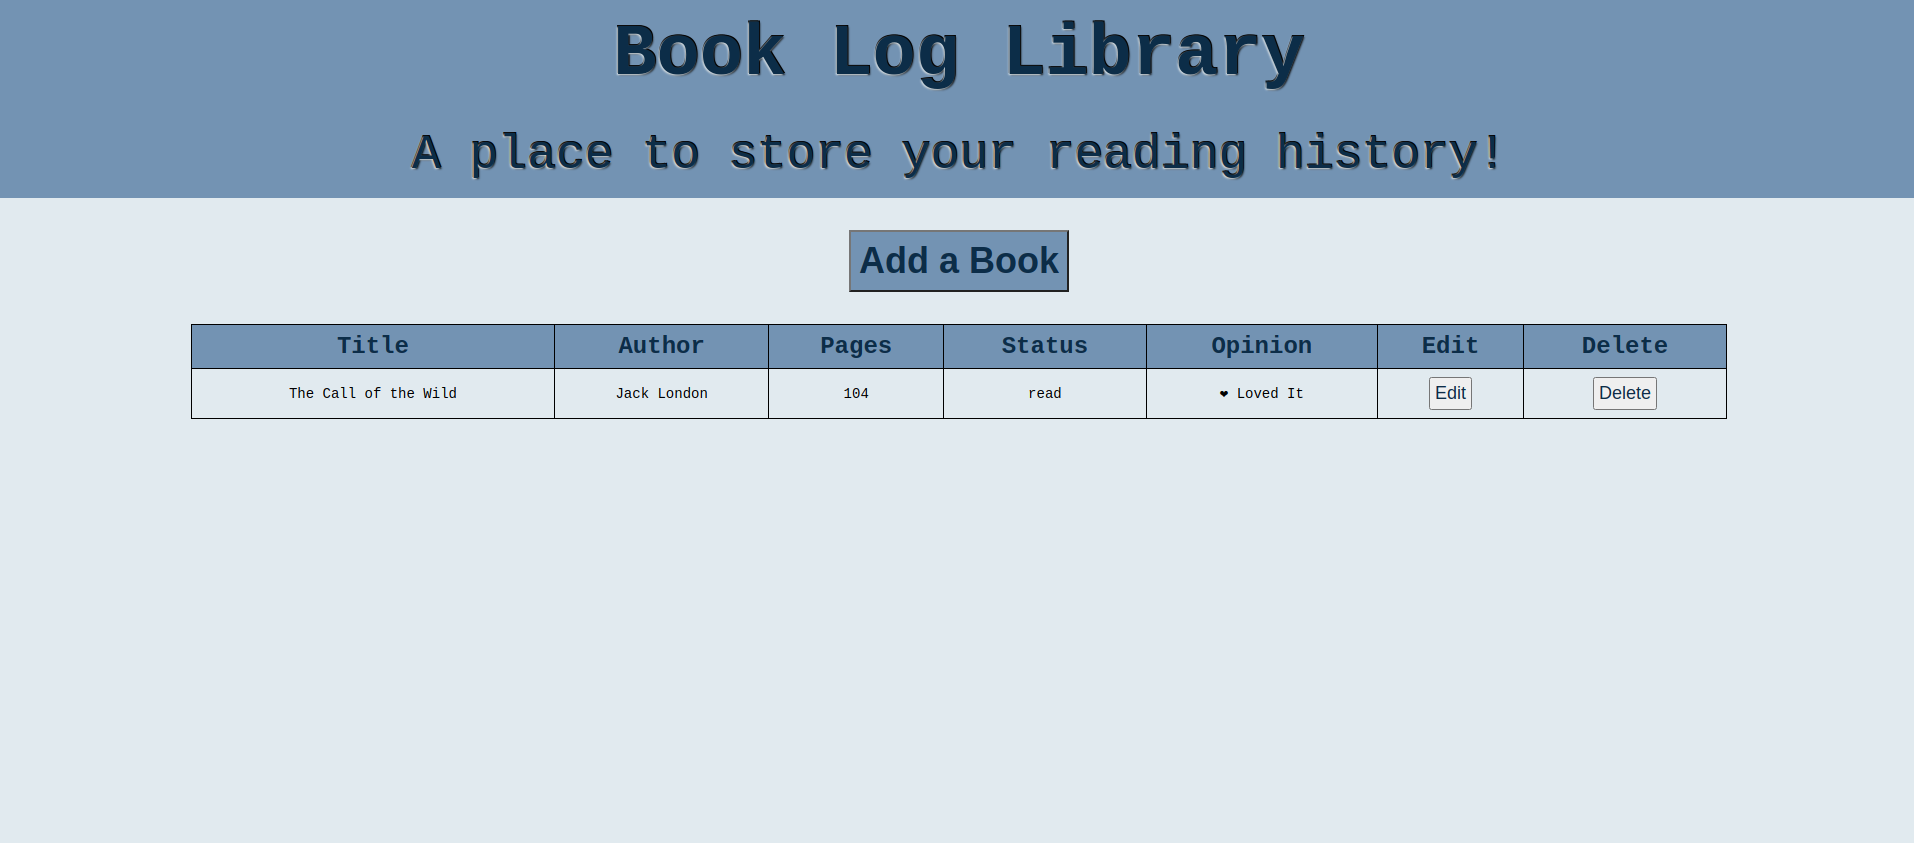
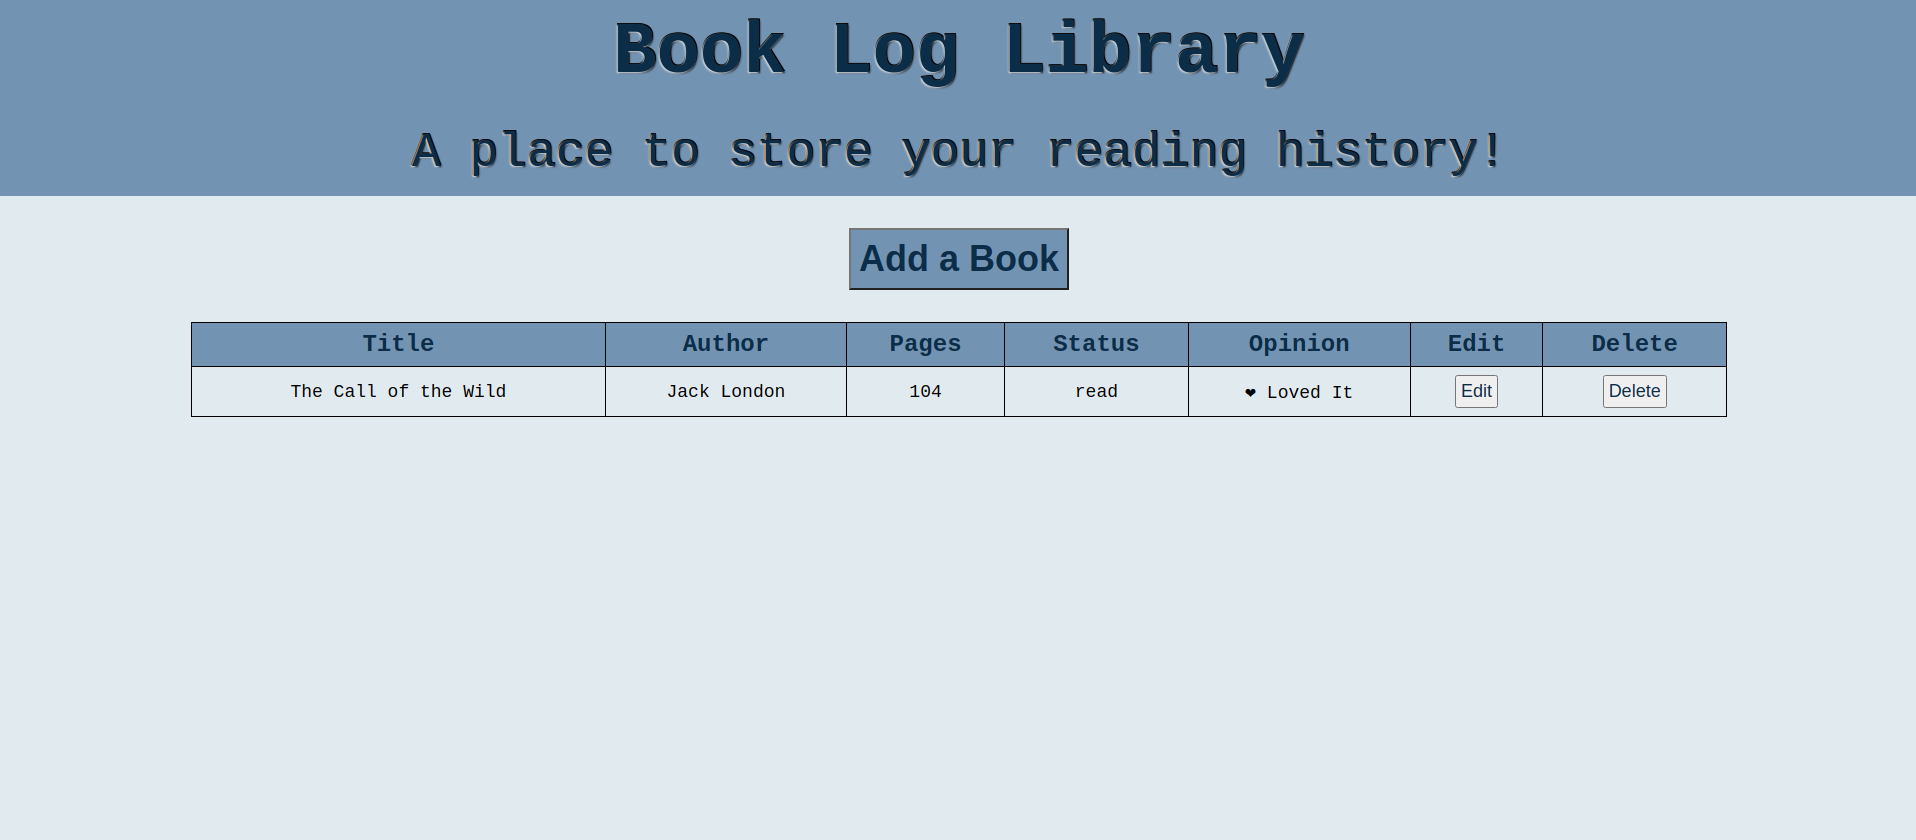
updated font size of table and image for readme

diff --git a/style.css b/style.css
@@ -77,7 +77,7 @@ th {
 }
 
 td {
-    font-size: 14px;
+    font-size: 18px;
     padding: 0.5rem;
 }
 
